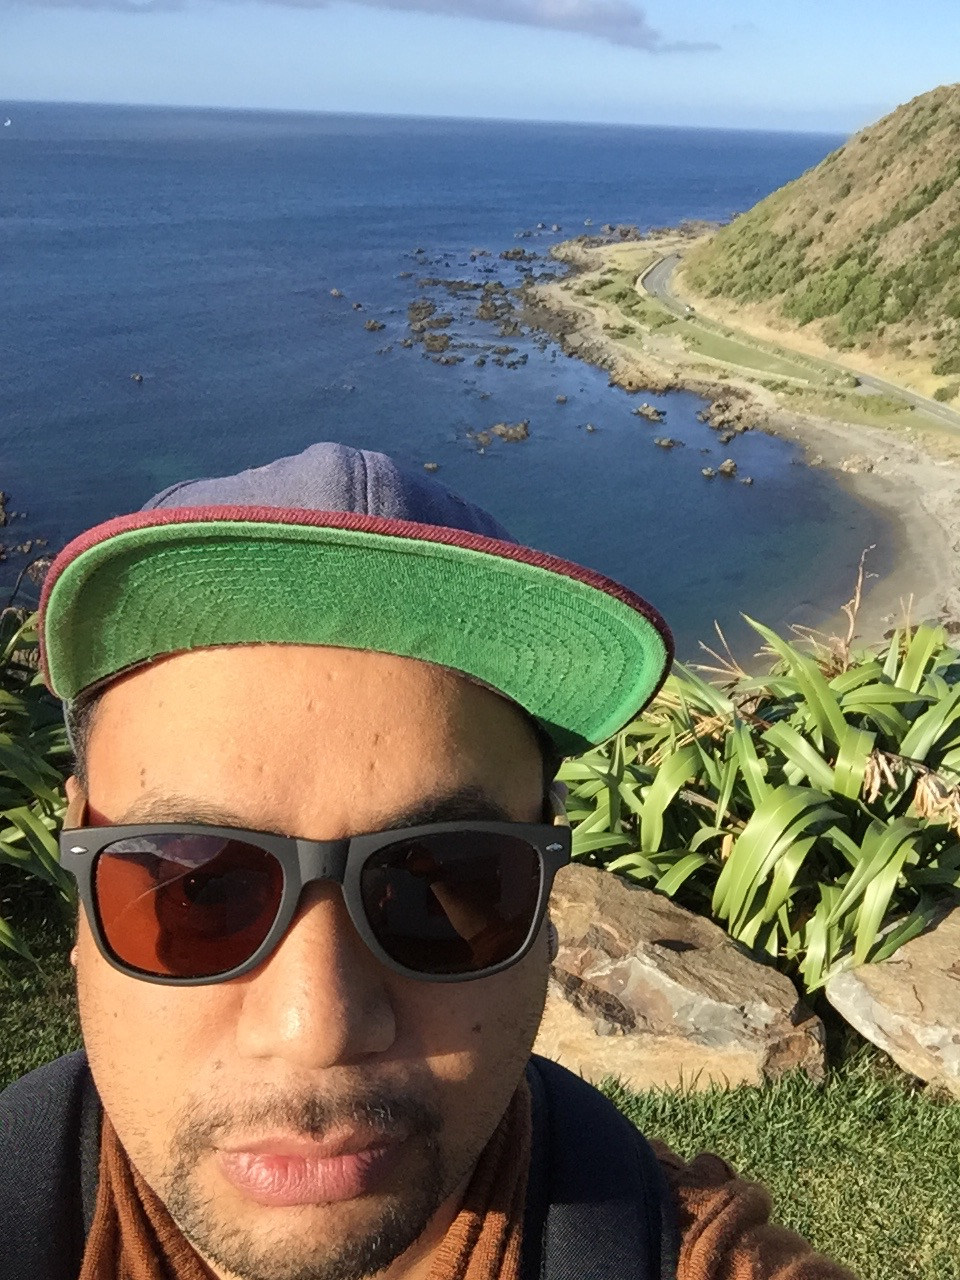
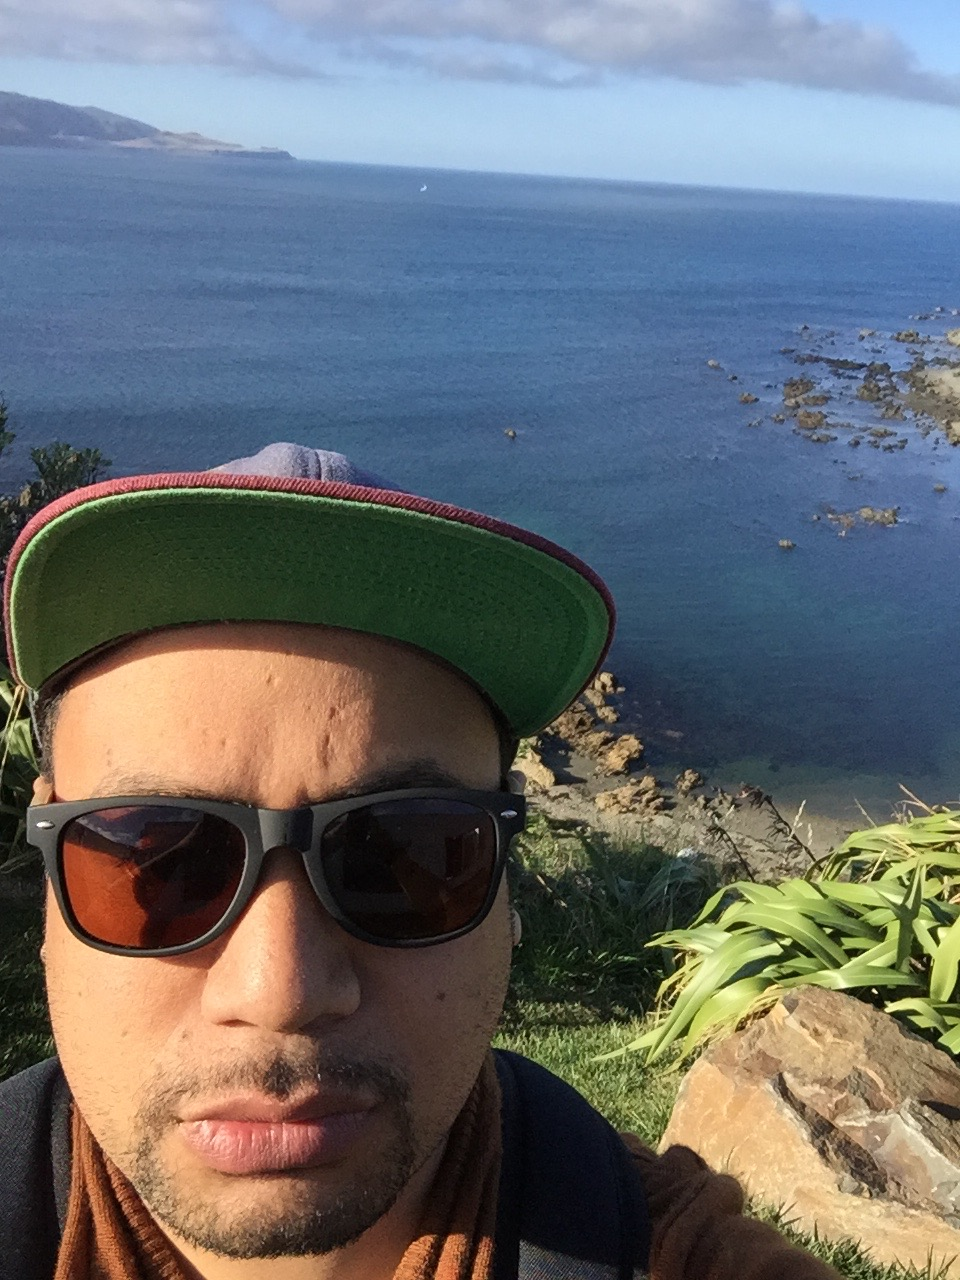
changed photo and cv link

diff --git a/components/app/main.js b/components/app/main.js
@@ -31,10 +31,9 @@ export default class Main extends Component{
         <LinkContainer to="contact">
           <Button bsStyle="primary" className="animated fadeIn">Contact</Button>
         </LinkContainer>
-        {/*<LinkContainer to="CV">
+        <LinkContainer to="CV">
           <Button bsStyle="primary" className="animated fadeIn">CV</Button>
-        </LinkContainer>*/}
-        <a href='TonyLuisiCV.pdf'>CV</a>
+        </LinkContainer>
         <LinkContainer to="projects">
           <Button bsStyle="primary" className="animated fadeIn">Projects</Button>
         </LinkContainer>
